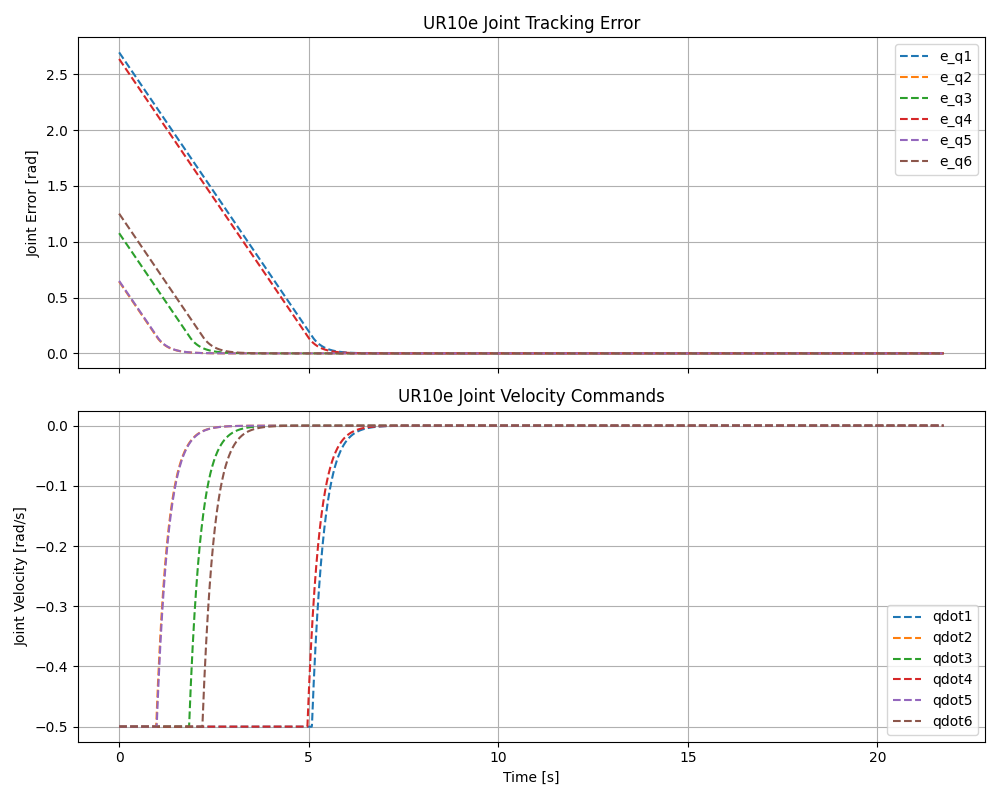
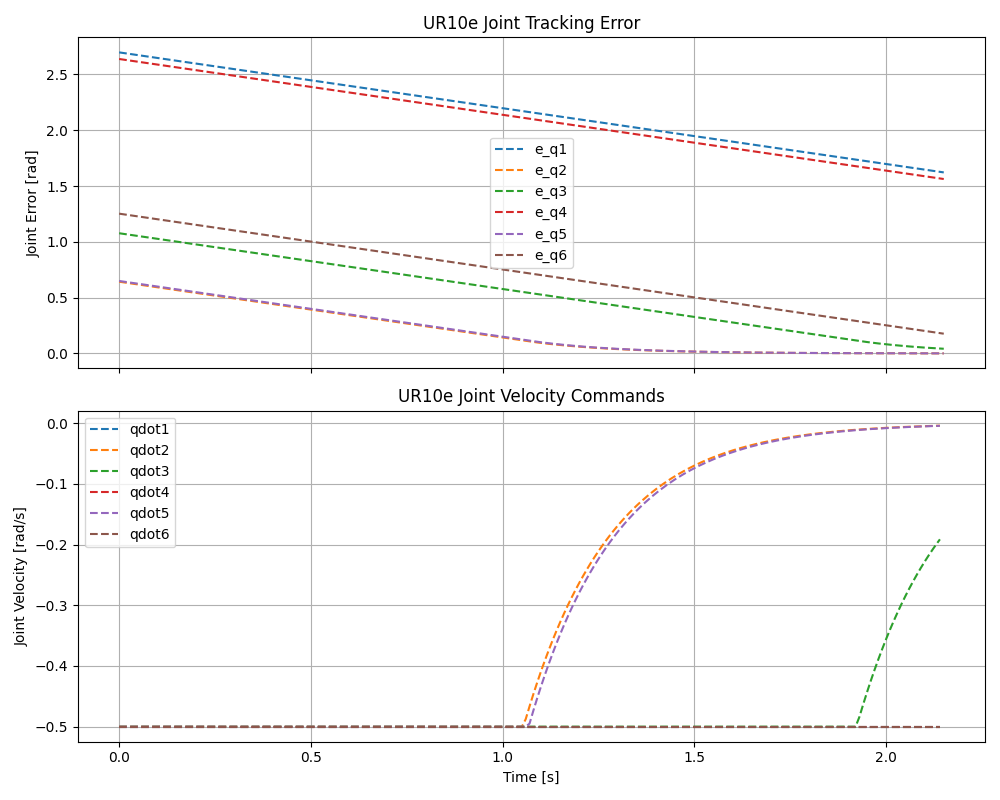
added mpc for actual hardware

diff --git a/src/simulation.py b/src/simulation.py
@@ -39,25 +39,32 @@ class EmbeddedSimEnvironment(object):
         u_vec = np.empty((6, 0))
         e_vec = np.empty((6, 0))
 
+        start_wall = time.time()
+        next_tick = start_wall
+
         self.ran_iterations = 0
         while self.shared_state.following_trajectory:
+            loop_start = time.time()
 
-            # Get control input and obtain next state
-            x = x_vec[:, -1].reshape(self.model.n, 1)
+            x = x_vec[:, -1].reshape(self.model.n, 1) # TODO: REMOVE THIS FOR ACTUAL ROBOT
+            # x = np.array(self.shared_state.joint_pos).reshape(self.model.n, 1) # TODO: UNCOMMENT THIS FOR ACTUAL ROBOT
             u, error = self.controller(x, self.ran_iterations * self.dt)
             x_next = self.dynamics(x, u)
 
-            # Set joint velocity input
             with self.shared_state.lock:
-                self.u_curr = u
+                self.shared_state.u_curr = np.array(u).reshape(6, 1)
 
-            # Store data
             t = np.append(t, t[-1] + self.dt)
             x_vec = np.append(x_vec, np.array(x_next).reshape(self.model.n, 1), axis=1)
             u_vec = np.append(u_vec, np.array(u).reshape(self.model.m, 1), axis=1)
             e_vec = np.append(e_vec, error.reshape(6, 1), axis=1)
 
             self.ran_iterations += 1
+
+            next_tick += self.dt
+            sleep_time = next_tick - time.time()
+            if sleep_time > 0:
+                time.sleep(sleep_time)
 
         _, error = self.controller(x_next, self.ran_iterations * self.dt)
         e_vec = np.append(e_vec, error.reshape((6, 1)), axis=1)

diff --git a/src/mpc.py b/src/mpc.py
@@ -334,34 +334,13 @@ class MPC(object):
         :return: control input
         :rtype: ca.DM
         """
-        x_traj = np.array(self.shared_state.trajectory_window).T
+        x_traj = np.array(self.shared_state.trajectory_window)
         x_sp = x_traj.reshape(self.Nx * (self.Nt + 1), order='F')
         self.set_reference(x_sp)
         _, u_pred = self.solve_mpc(x0)
 
         # Calculate error to first state
         error = self.calculate_error(x0, self.x_sp[0:6])
-
-        return u_pred[0], error
-
-    def ur10e_sim_controller(self, x0, xh):
-        """
-        Controller to be used in the ur10e simulator
-
-        :param x0: [description]
-        :type x0: [type]
-        :param xh: [description]
-        :type xh: [type]
-        :return: [description]
-        :rtype: [type]
-        """
-        x_traj = self.model.forward_propagate(xh, self.Nt + 1, radius=0.5)
-        x_sp = x_traj.reshape(self.Nx * (self.Nt + 1), order='F')
-        self.set_reference(x_sp)
-        _, u_pred = self.solve_mpc(x0)
-
-        # Calculate error to first state
-        error = self.calculate_error(x0, x_traj[:, 0])
 
         return u_pred[0], error
 

diff --git a/src/combined_main.py b/src/combined_main.py
@@ -14,8 +14,8 @@ from src.imu import IMUGUI
 from src.trajectory_tracking import MPCSimulationThread
 from src.urx_control_thread import URXControlThread
 
-SAMPLING_RATE = 150 # Hz
-MPC_HORIZON = SAMPLING_RATE // 30 # sec = horizon_samples / sampling_rate
+SAMPLING_RATE = 100 # Hz
+MPC_HORIZON = SAMPLING_RATE // 20 # sec = horizon_samples / sampling_rate
 
 class SharedTrajectoryState:
     """Thread-safe shared state for IMU and MPC communication."""
@@ -32,6 +32,7 @@ class SharedTrajectoryState:
         self.u_curr = np.zeros((6,1))
         self.robot_enabled = False
         self.shutdown = False
+        self.joint_pos = None
 
     def start_following(self):
         """Start trajectory following (called by MPC)."""
@@ -96,7 +97,7 @@ def run_mpc_background(shared_state, mpc_horizon, status_callback=None):
                     if status_callback and msg != last_status:
                         status_callback(msg)
                         last_status = msg
-                    time.sleep(0.01)
+                    time.sleep(0.05)
 
                 else:
                     if sim_thread.status == "completed":

diff --git a/src/urx_control_thread.py b/src/urx_control_thread.py
@@ -22,6 +22,8 @@ class URXControlThread(threading.Thread):
             print(f"[URX] Connecting to robot at {self.robot_ip}...")
             self.robot = urx.Robot(self.robot_ip)
 
+            self.shared_state.joint_pos = self.robot.getj()
+
             with self.shared_state.lock:
                 self.shared_state.robot_connected = True
 
